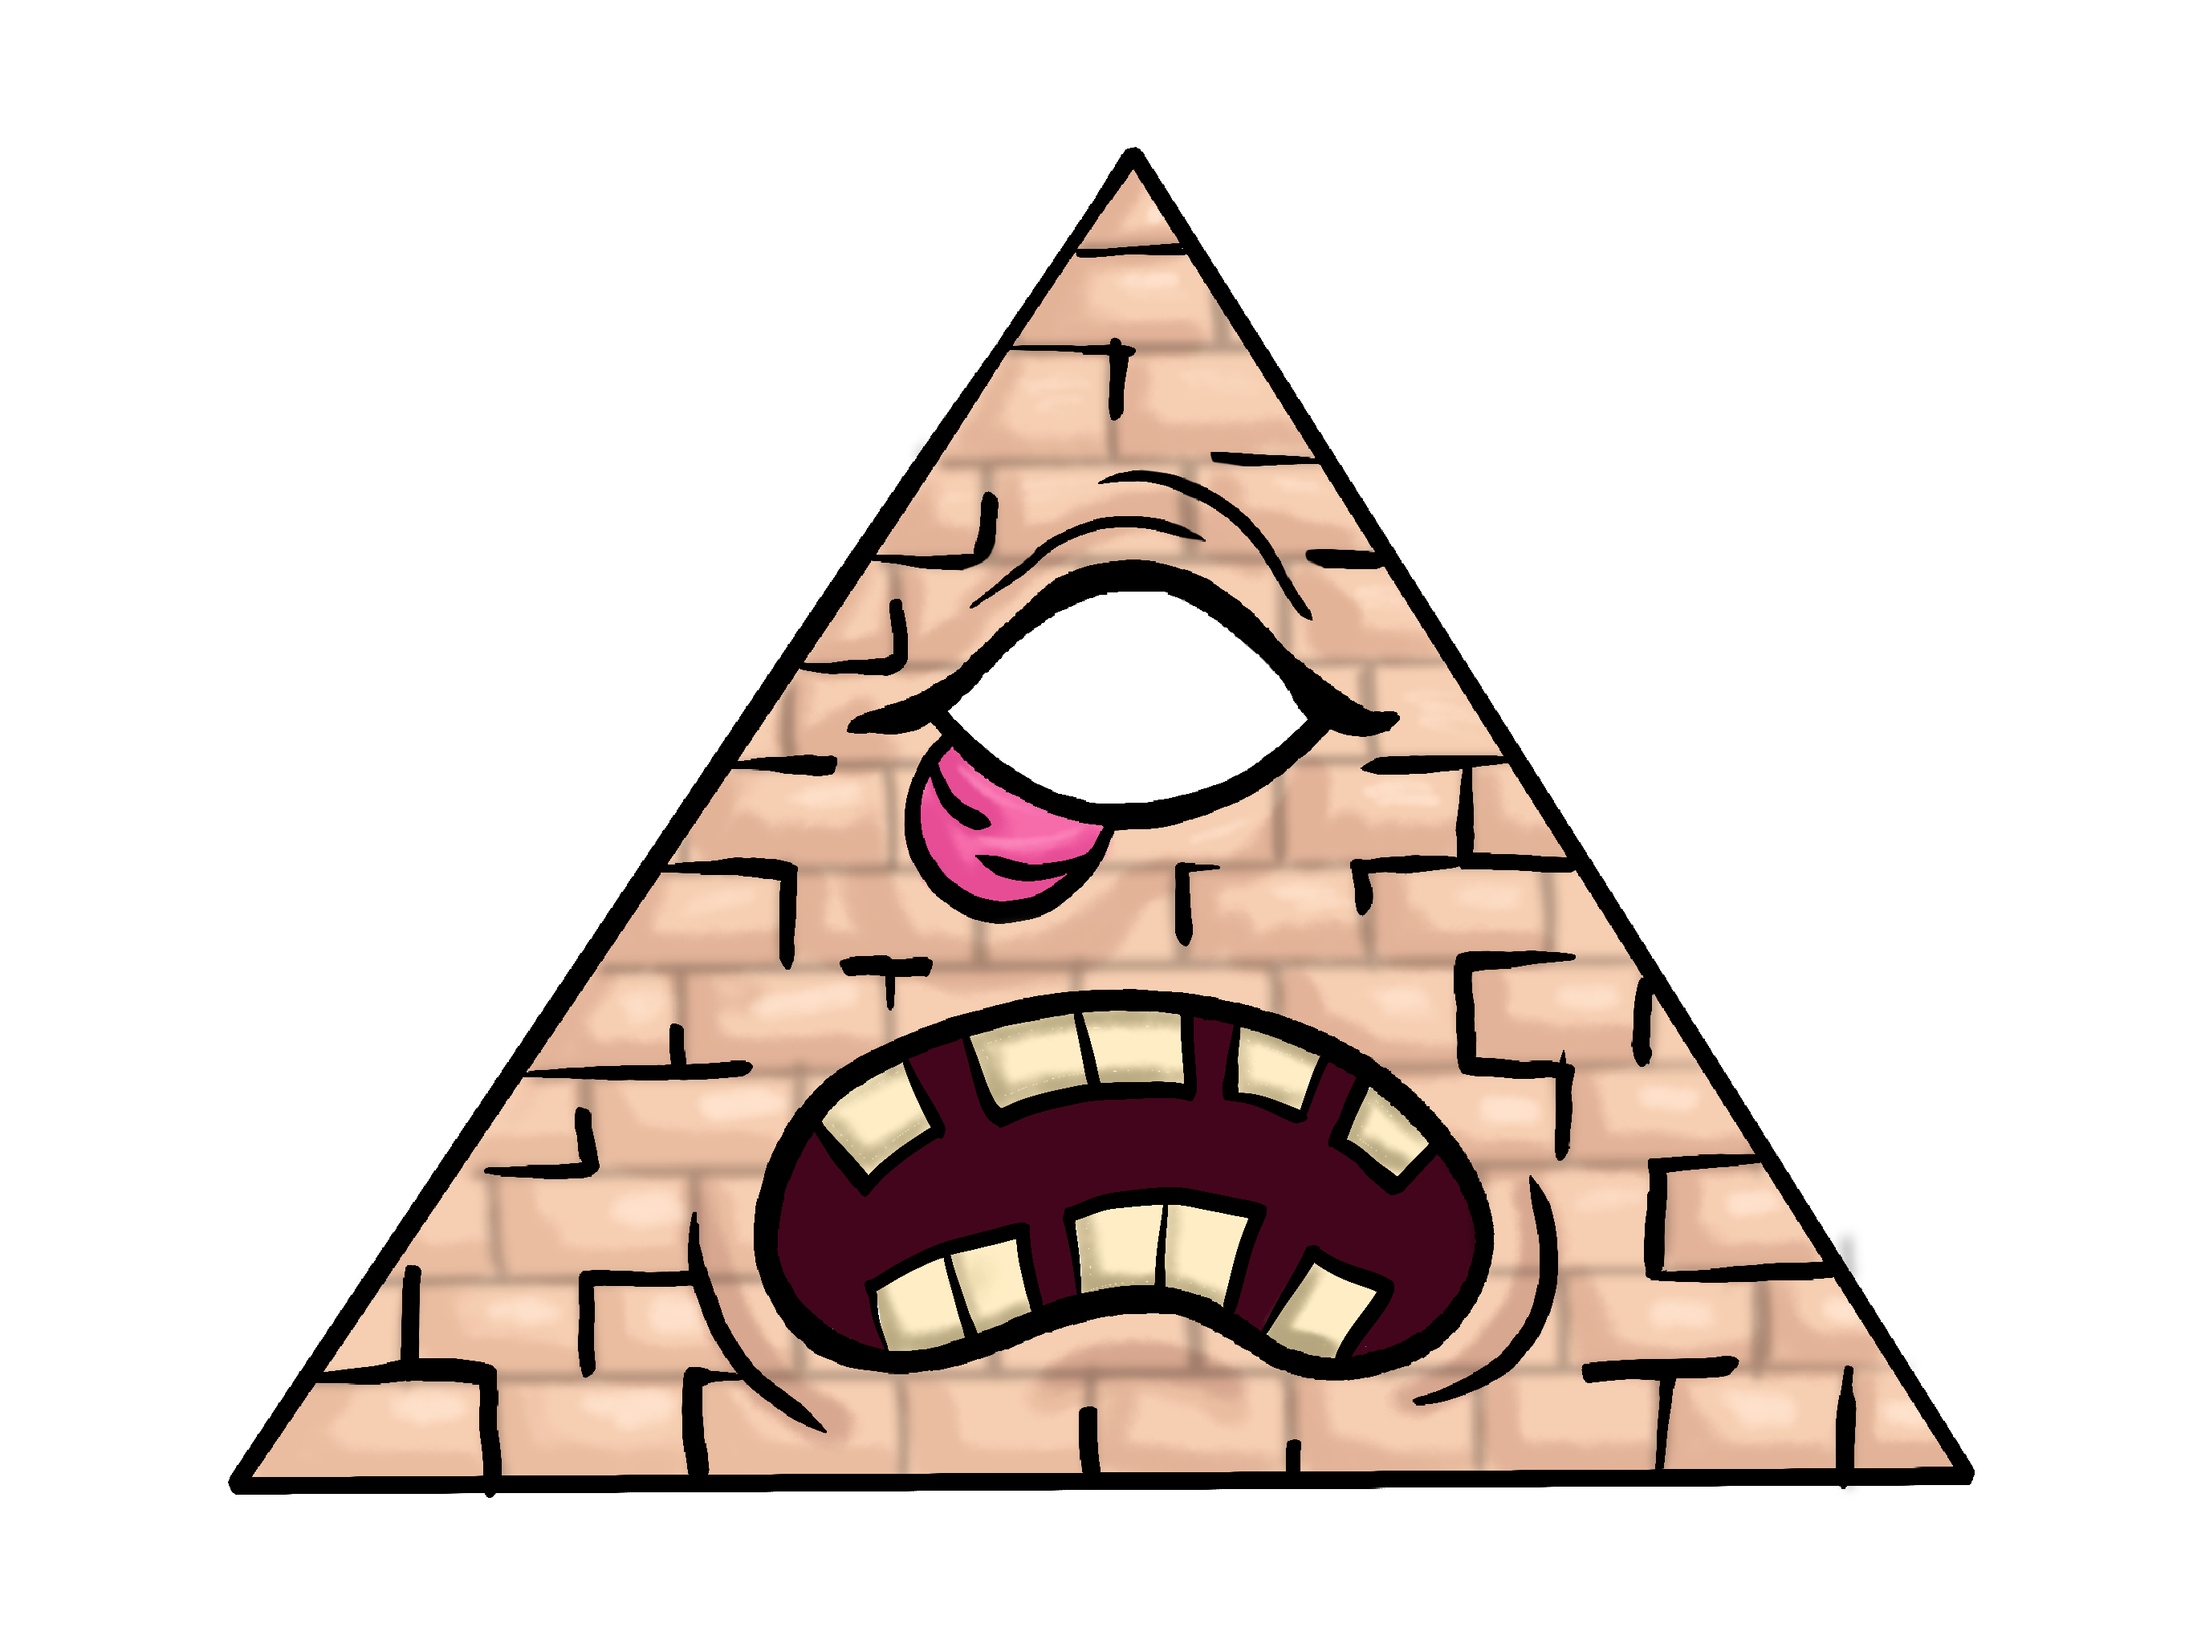
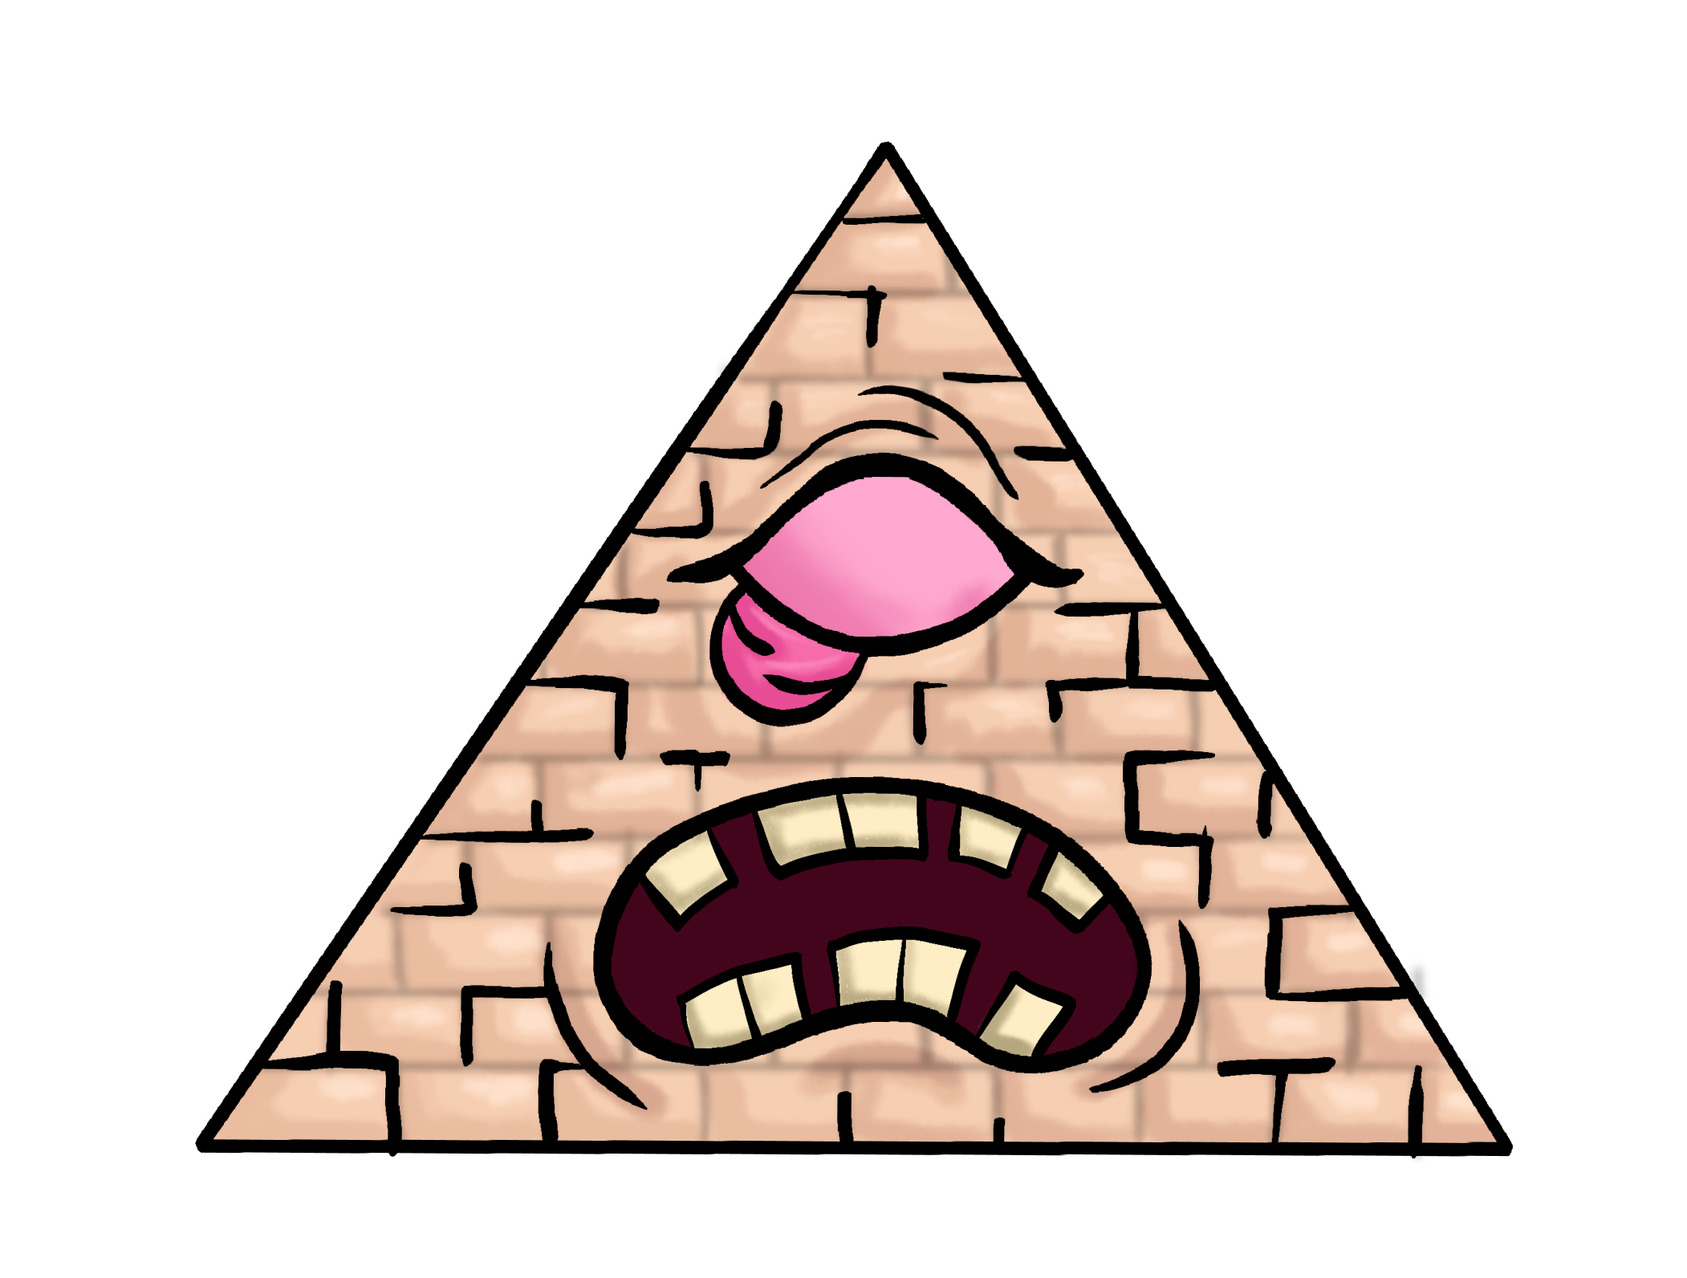
Pyramid Component Started

Changed region(s): [[0.0928, 0.0923, 0.8968, 0.9234]]

diff --git a/src/Pyramid.js b/src/Pyramid.js
@@ -1,10 +1,38 @@
+import { useContext, useEffect, useRef, useState} from 'react';
 import './App.css';
-import pryamid from "./assets/Pyramid.png"
+import pryamid from "./assets/PyramidTrans.png"
+import { EyeContext } from './eyeContext';
+import iris from "./assets/iris.png"
+import pupil from "./assets/pupil.png"
 
 const Pyramid = () => {
+    function angle(cx, cy, ex , ey){
+        const dy = ey - cy
+        const dx = ex - cx
+        const rad = Math.atan2(dy, dx)
+        const deg = rad * 180 / Math.PI
+        return deg
+    }
+
+    const [cursorPosition, setCursorPosition ] = useState({top :0, left :0})
+    const [angleDeg , setAngleDeg] = useState(0)
+    const base = useRef()
+    document.addEventListener('mousemove', (e)=>{
+        setCursorPosition({top: e.screenY, left: e.screenX })
+        const rect = base.current.getBoundingClientRect()
+        const anchorX = rect.left + rect.width / 2;
+        const anchorY = rect.top + rect.height/ 2;
+        const degree = angle(cursorPosition.left, cursorPosition.top, anchorX, anchorY)
+        setAngleDeg(degree)
+    })
+
     return ( 
     <div class="Pyramid"> 
-        <img src= { pryamid }/>
+        <img id="triangle" src= { pryamid } ref={base}/>
+        <img id="pupil" src={pupil} />
+        <div>
+            <img id="iris" src={iris} style={{transform: `rotate(${angleDeg - 90 }deg)`}} />
+        </div>
     </div>
     );
 }

diff --git a/src/index.js b/src/index.js
@@ -3,13 +3,15 @@ import ReactDOM from 'react-dom/client';
 import './index.css';
 import NavBar from './Navbar';
 import Pyramid from './Pyramid';
+import { EyeContext } from './eyeContext';
+
 
 
 const root = ReactDOM.createRoot(document.getElementById('root'));
 root.render(
-  <body> 
-    <NavBar />
-    <Pyramid/>
-  </body>
+    <body> 
+      <NavBar />
+      <Pyramid/>
+    </body>
 );
 

diff --git a/src/App.css b/src/App.css
@@ -3,7 +3,23 @@
   width: 100px;
   height: 100px;
 }
-.Pyramid{
-  width: 100px;
-  height: 10px;
+#triangle {
+  position: absolute;
+  width: 95vw;
+  height: 1557.05px;
+  z-index: 2;
+}
+#pupil{
+  width: 95vw;
+  height: 1557.05px;
+  position: absolute;
+  z-index: 0;
+}
+#iris{
+  position: absolute;
+  top: 25%;
+  left: 0%;
+  z-index: 1;
+  width: 95vw;
+  height: 1200px;
 }

diff --git a/src/Navbar.js b/src/Navbar.js
@@ -1,5 +1,8 @@
 
+import { useContext, useEffect } from 'react';
 import './App.css';
+
+
 
 function NavBar() {
   return (

diff --git a/src/eyeContext.js b/src/eyeContext.js
@@ -1,0 +1,3 @@
+import { createContext } from "react";
+
+export const EyeContext = createContext({})
